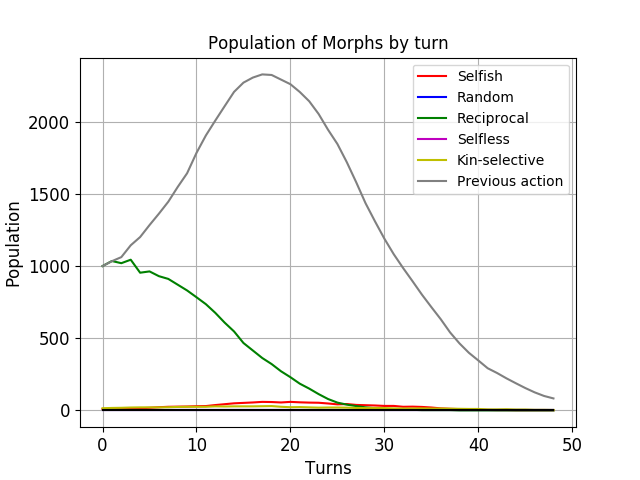
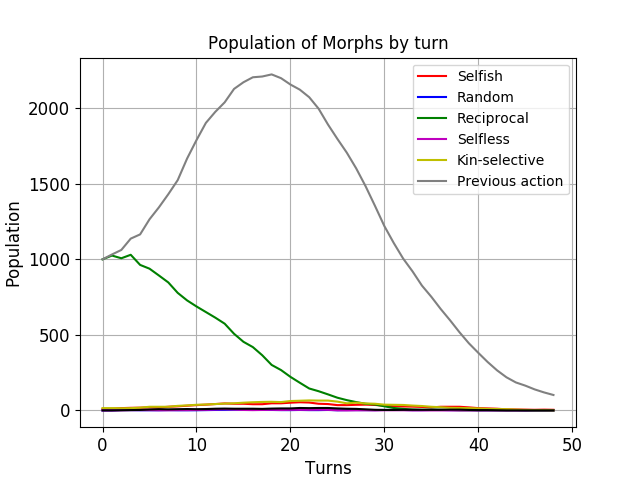
+mutation

diff --git a/environment/game.py b/environment/game.py
@@ -5,6 +5,7 @@ from morphs.pink import PinkMorph
 from morphs.yellow import YellowMorph
 from morphs.white import WhiteMorph
 from morphs.black import BlackMorph
+from morphs.morph import Morph
 from config import Config, MetaConfig
 import random
 
@@ -123,15 +124,42 @@ class Game():
         return
 
     def genMorph(self, colour, config):
-        colourName = config.indexMapping[colour]
-        if(colourName == 'red'): newMorph = RedMorph(config.indivEnergy, config.repThresh, self.idGen(), config.colourMapping['red'], config.formidMapping['red'])
-        elif(colourName == 'blue'): newMorph = BlueMorph(config.indivEnergy, config.repThresh, self.idGen(), config.colourMapping['blue'], config.formidMapping['blue'])
-        elif(colourName == 'green'): newMorph = GreenMorph(config.indivEnergy, config.repThresh, self.idGen(), config.colourMapping['green'], config.formidMapping['green'])
-        elif(colourName == 'pink'): newMorph = PinkMorph(config.indivEnergy, config.repThresh, self.idGen(), config.colourMapping['pink'], config.formidMapping['pink'])
-        elif(colourName == 'yellow'): newMorph = YellowMorph(config.indivEnergy, config.repThresh, self.idGen(), config.colourMapping['yellow'], config.formidMapping['yellow'])
-        elif(colourName == 'white'): newMorph = WhiteMorph(config.indivEnergy, config.repThresh, self.idGen(), config.colourMapping['white'], config.formidMapping['white'])
-        elif(colourName == 'black'): newMorph = BlackMorph(config.indivEnergy, config.repThresh, self.idGen(), config.colourMapping['black'], config.formidMapping['black'])
-        return newMorph
+
+        mutationCheck = random.randint(1,100)
+        colourName = ''
+
+        #initial check for 0 technically redundant but optimises code
+        if(config.mutationChance == 0): colourName = config.indexMapping[colour]
+        elif(mutationCheck < config.mutationChance):
+            randIndex = random.randint(0, len(config.indexMapping) - 1)
+            colourName = config.indexMapping[randIndex]
+            print(colourName)
+        else: colourName = config.indexMapping[colour]
+
+
+        if(colourName == 'red'): 
+            newMorph = RedMorph(config.indivEnergy, config.repThresh, self.idGen(), config.colourMapping['red'], config.formidMapping['red'])
+            return newMorph
+        elif(colourName == 'blue'): 
+            newMorph = BlueMorph(config.indivEnergy, config.repThresh, self.idGen(), config.colourMapping['blue'], config.formidMapping['blue'])
+            return newMorph
+        elif(colourName == 'green'): 
+            newMorph = GreenMorph(config.indivEnergy, config.repThresh, self.idGen(), config.colourMapping['green'], config.formidMapping['green'])
+            return newMorph
+        elif(colourName == 'pink'): 
+            newMorph = PinkMorph(config.indivEnergy, config.repThresh, self.idGen(), config.colourMapping['pink'], config.formidMapping['pink'])
+            return newMorph
+        elif(colourName == 'yellow'): 
+            newMorph = YellowMorph(config.indivEnergy, config.repThresh, self.idGen(), config.colourMapping['yellow'], config.formidMapping['yellow'])
+            return newMorph
+        elif(colourName == 'white'): 
+            newMorph = WhiteMorph(config.indivEnergy, config.repThresh, self.idGen(), config.colourMapping['white'], config.formidMapping['white'])
+            return newMorph
+        elif(colourName == 'black'): 
+            newMorph = BlackMorph(config.indivEnergy, config.repThresh, self.idGen(), config.colourMapping['black'], config.formidMapping['black'])
+            return newMorph
+
+        print(colourName)
 
     def generateStats(self, config):
         energyStats = [0] * len(config.colourMapping)

diff --git a/config.py b/config.py
@@ -35,6 +35,8 @@ class Config():
 
         self.randomDistrib = int(fileList[44].rstrip())
 
+        self.mutationChance = float(fileList[46].rstrip())
+
     def setMappings(self):
         if(self.randomDistrib == 0):
             #NORMAL
